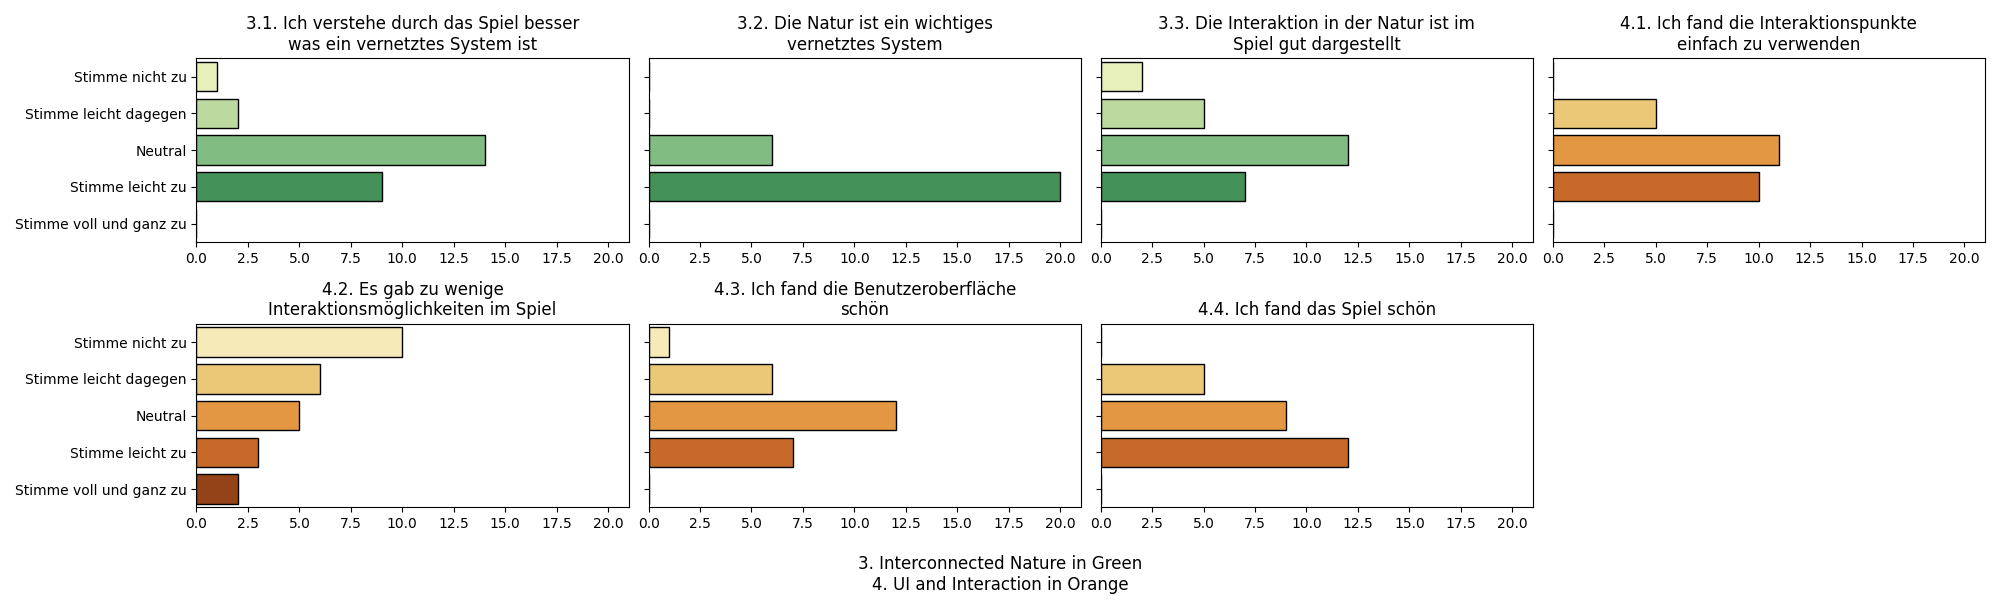
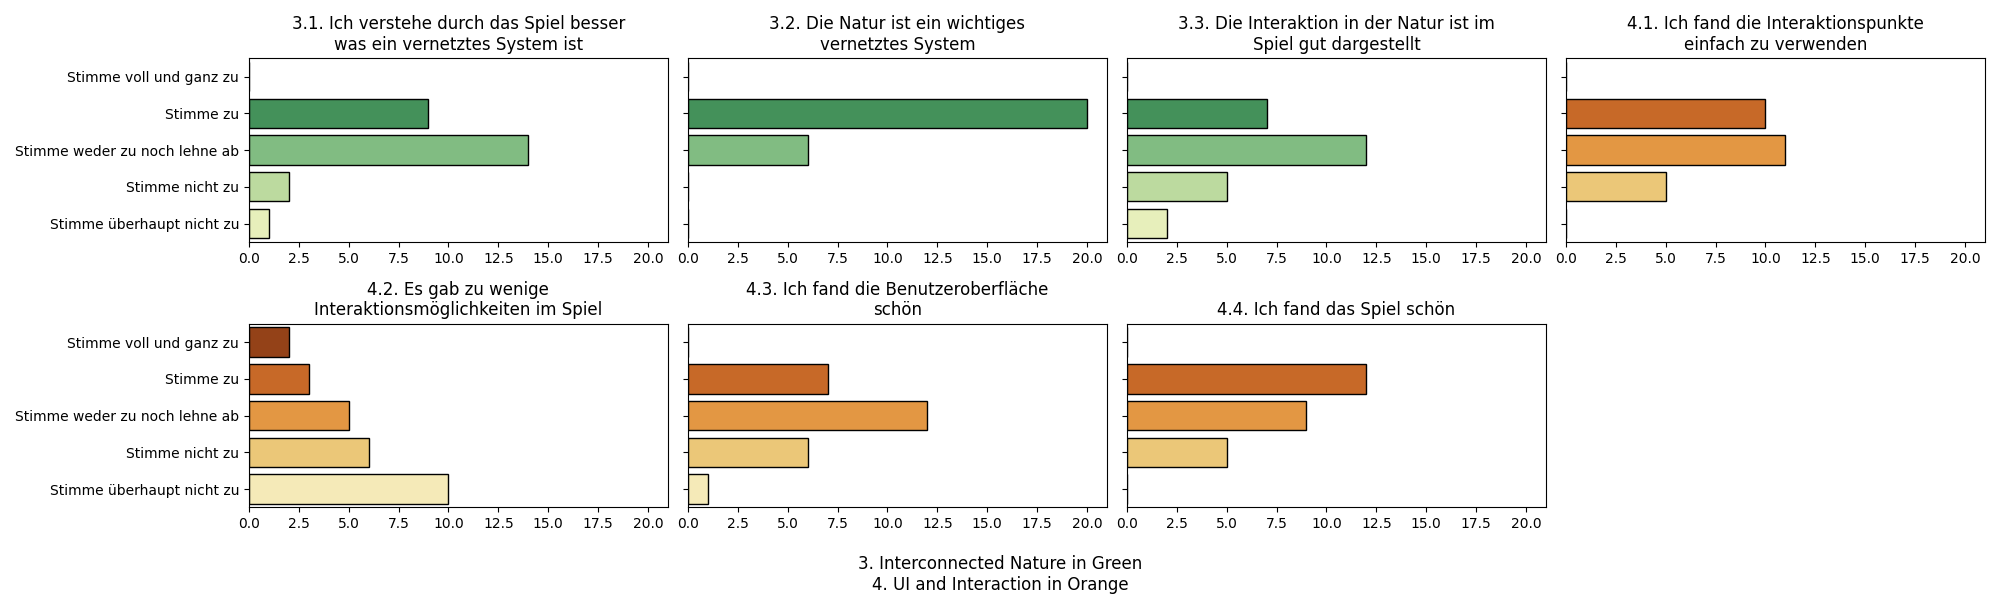
Inverted Y Axis for better readability of Likert-Scale

diff --git a/DataEvaluation.py b/DataEvaluation.py
@@ -45,7 +45,7 @@ for df in TempLists:
 Lists[2].loc[1] = [0, 0, 0]
 
 # X Labels we want to use on our Graphs
-x = ['Stimme nicht zu', 'Stimme leicht dagegen', 'Neutral', 'Stimme leicht zu', 'Stimme voll und ganz zu']
+x = ['Stimme überhaupt nicht zu', 'Stimme nicht zu', 'Stimme weder zu noch lehne ab', 'Stimme zu', 'Stimme voll und ganz zu']
 
 def plot_subplot(column_count, row_count, df_columns, colorlist, name, deleteLastPlot=False, XLabel=''):
     fig, ax = plt.subplots(nrows=row_count, ncols=column_count, figsize=(5*column_count,3*row_count), sharey=True, sharex=True)
@@ -72,6 +72,7 @@ def plot_subplot(column_count, row_count, df_columns, colorlist, name, deleteLas
          fig.delaxes(ax[row_count-1, column_count-1])
     
     fig.supxlabel(XLabel)
+    plt.gca().invert_yaxis()
     plt.tight_layout()
     plt.savefig('images/{}.png'.format(name))
 
